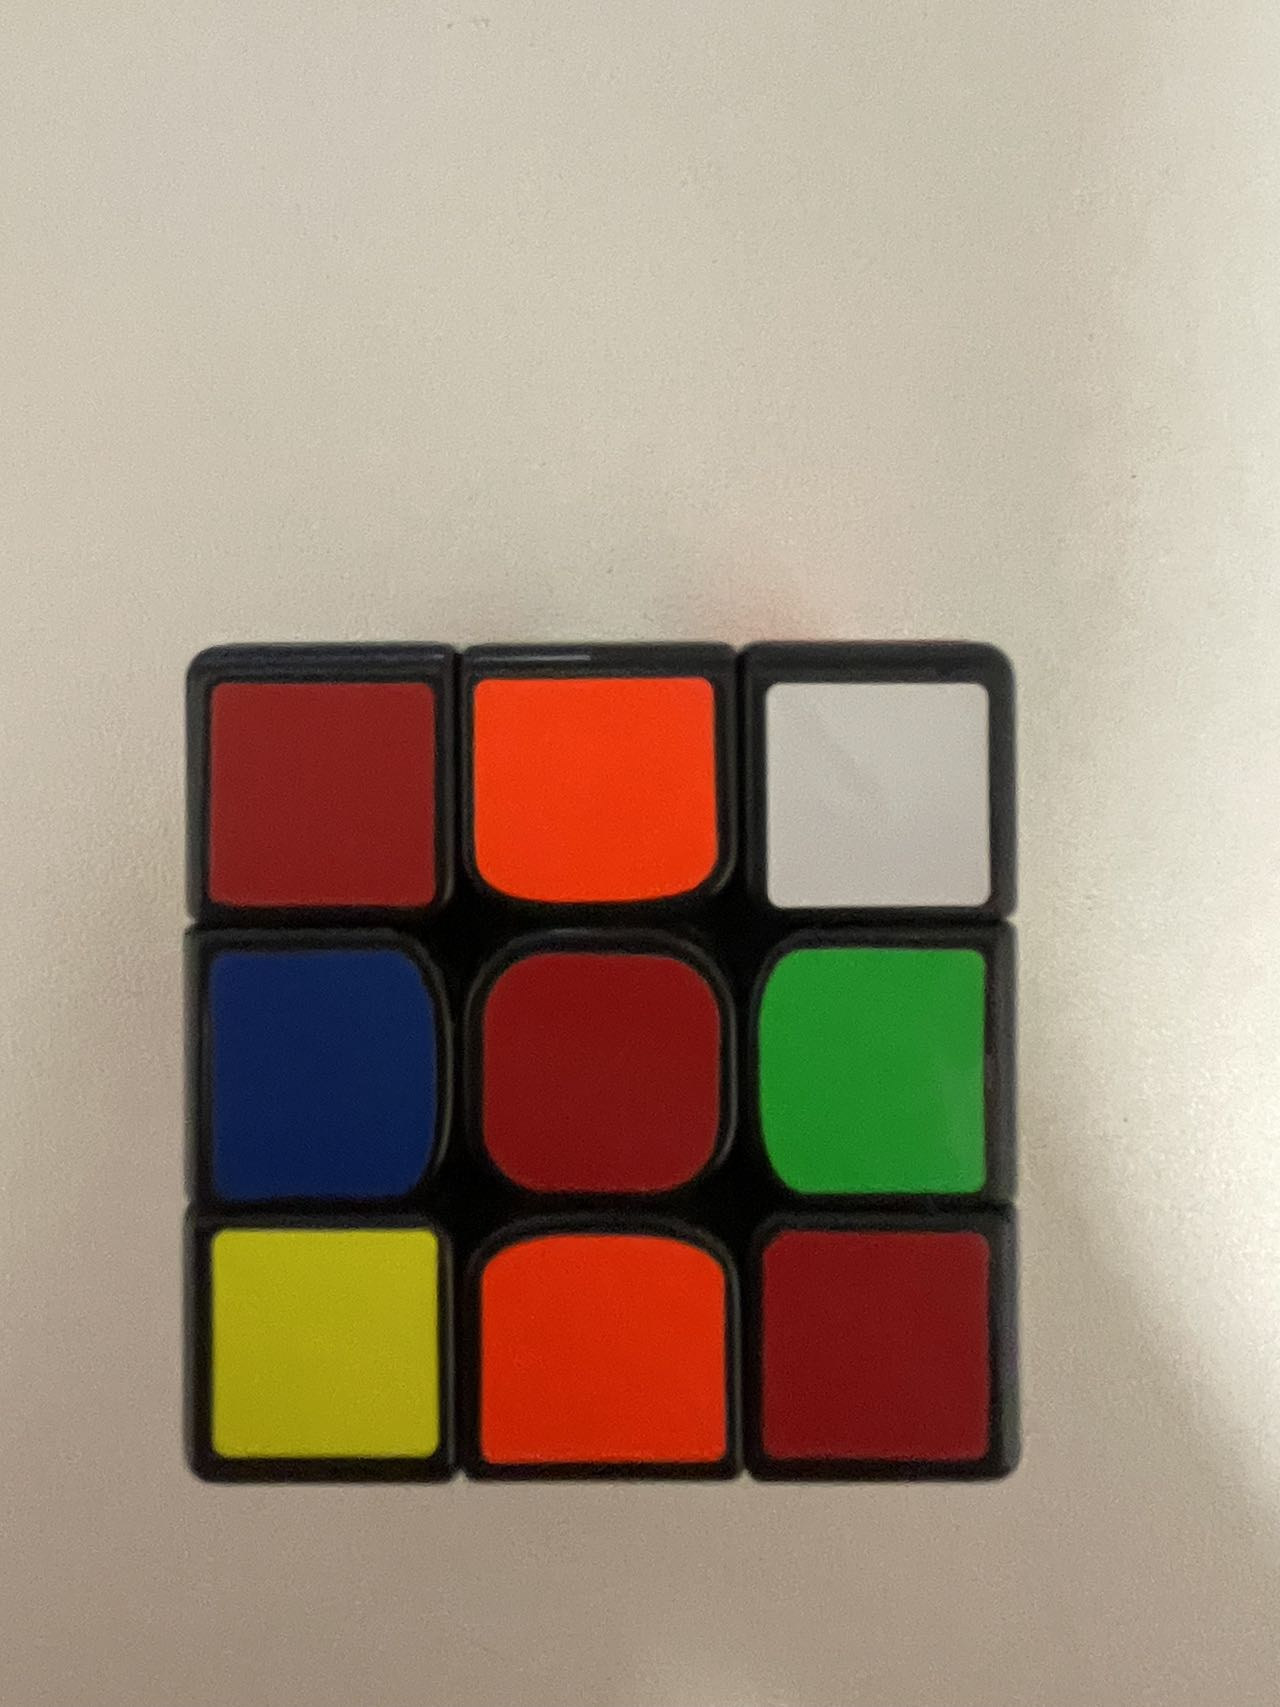
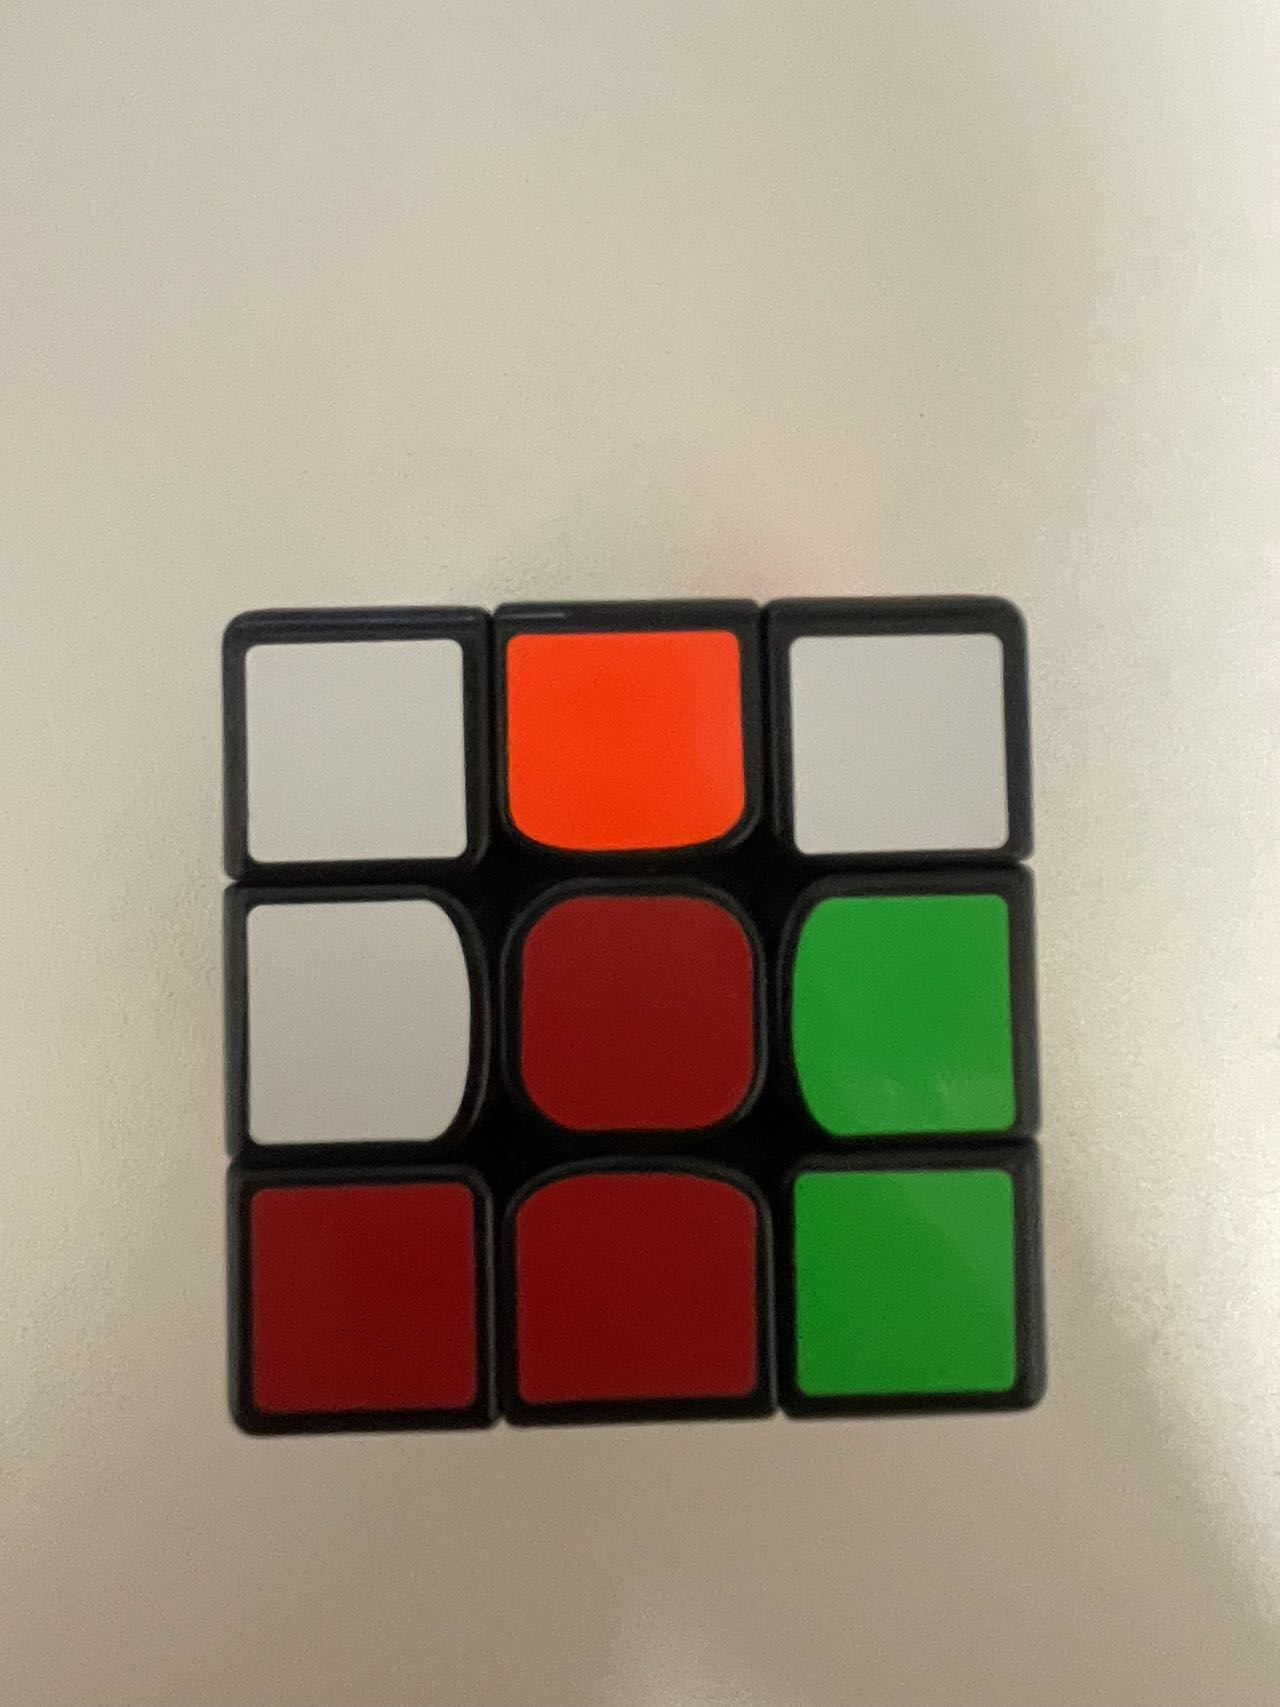
无

Changed region(s): [[0.0, 0.3415, 0.8438, 0.8694], [0.9375, 0.8383, 1.0, 0.9315]]

diff --git a/魔方/magic_square.py b/魔方/magic_square.py
@@ -738,15 +738,15 @@ class GetColor:
         yellow_min = np.array([10, 200, 140])
         yellow_max = np.array([50, 255, 240])
         red_min = np.array([0, 150, 90])
-        red_max = np.array([10, 255, 145])
+        red_max = np.array([10, 255, 160])
         blue_min = np.array([100, 60, 40])
-        blue_max = np.array([130, 220, 110])
+        blue_max = np.array([130, 255, 110])
         white_min = np.array([6, 7, 130])
         white_max = np.array([50, 40, 200])
         orange_min = np.array([0, 50, 170])
         orange_max = np.array([20, 255, 255])
         green_min = np.array([40, 130, 100])
-        green_max = np.array([80, 210, 180])
+        green_max = np.array([80, 255, 180])
         color = []
 
         for i in range(3):
